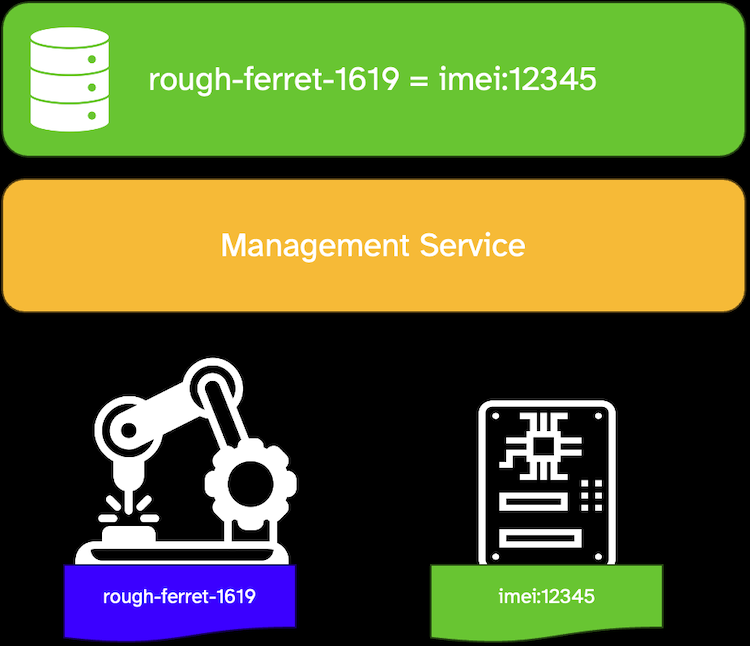
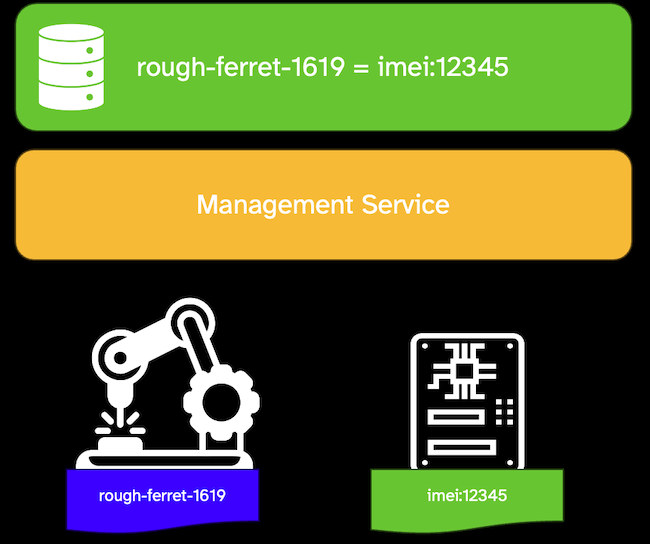
added final images

diff --git a/content/factors/identity/index.md b/content/factors/identity/index.md
@@ -18,6 +18,10 @@ A connected product is commonly made of of multiple "units" that each have their
 
 Each layer of a product requires some form of identity, but the only identity that matters in a connected product is the customer’s product serial number, and that everything must be able to be derived from that.
 
+![a device to product association](/images/identity-1.png)
+
 **The twelve-factor thing harmonizes device identity by enabling the embedded device to be associated to a product in the process of bringing it online**. One way to accomplish this is by ensuring that every connected product includes a barcode, or better yet, a QR code for easy association. When using these approaches, during the installation process, an installer can scan the code, which has the embedded device identifier included, and enter (or scan) the Serial Number of the end product that the embedded device is being associated to. This association is then replicated to cloud management and application services so that fleet managers are always able to identify the device and the product that it is connected to.
 
 One final advantage of this approach is that it allows for a connected product to retain its identity, even if the underlying embedded device needs to change. While it should be rare, some number of devices across a fleet of connected products will need to be decommissioned and replaced over the lifetime of a deployment. By using the approach above, when a device is replaced, the device id to product serial number association is updated and replicated to the management service without impacting the end customer view of the connected product.
+
+![a device to product association](/images/identity-2.png)
